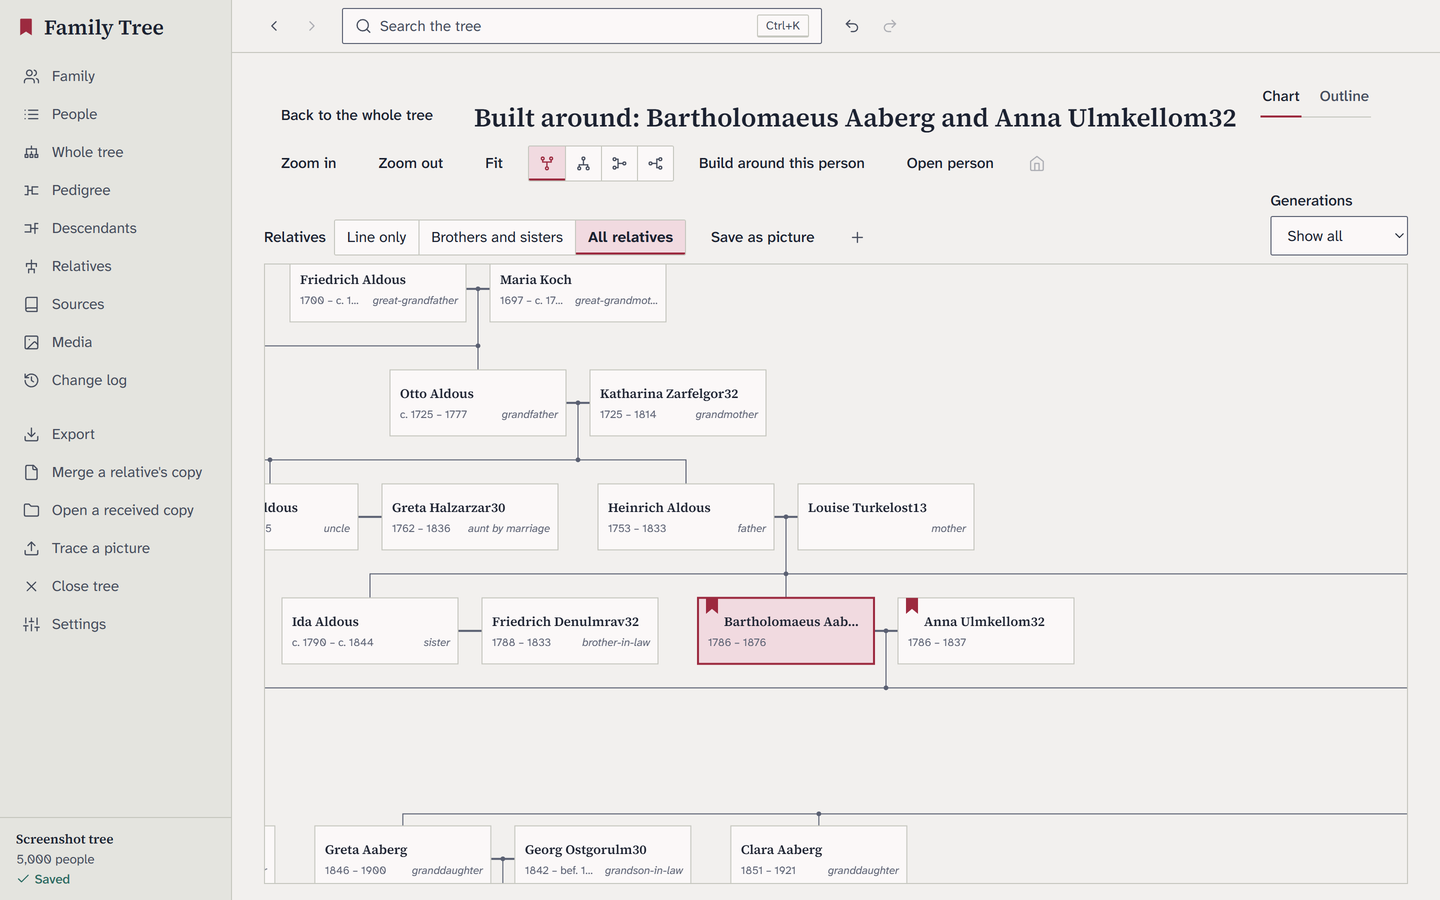
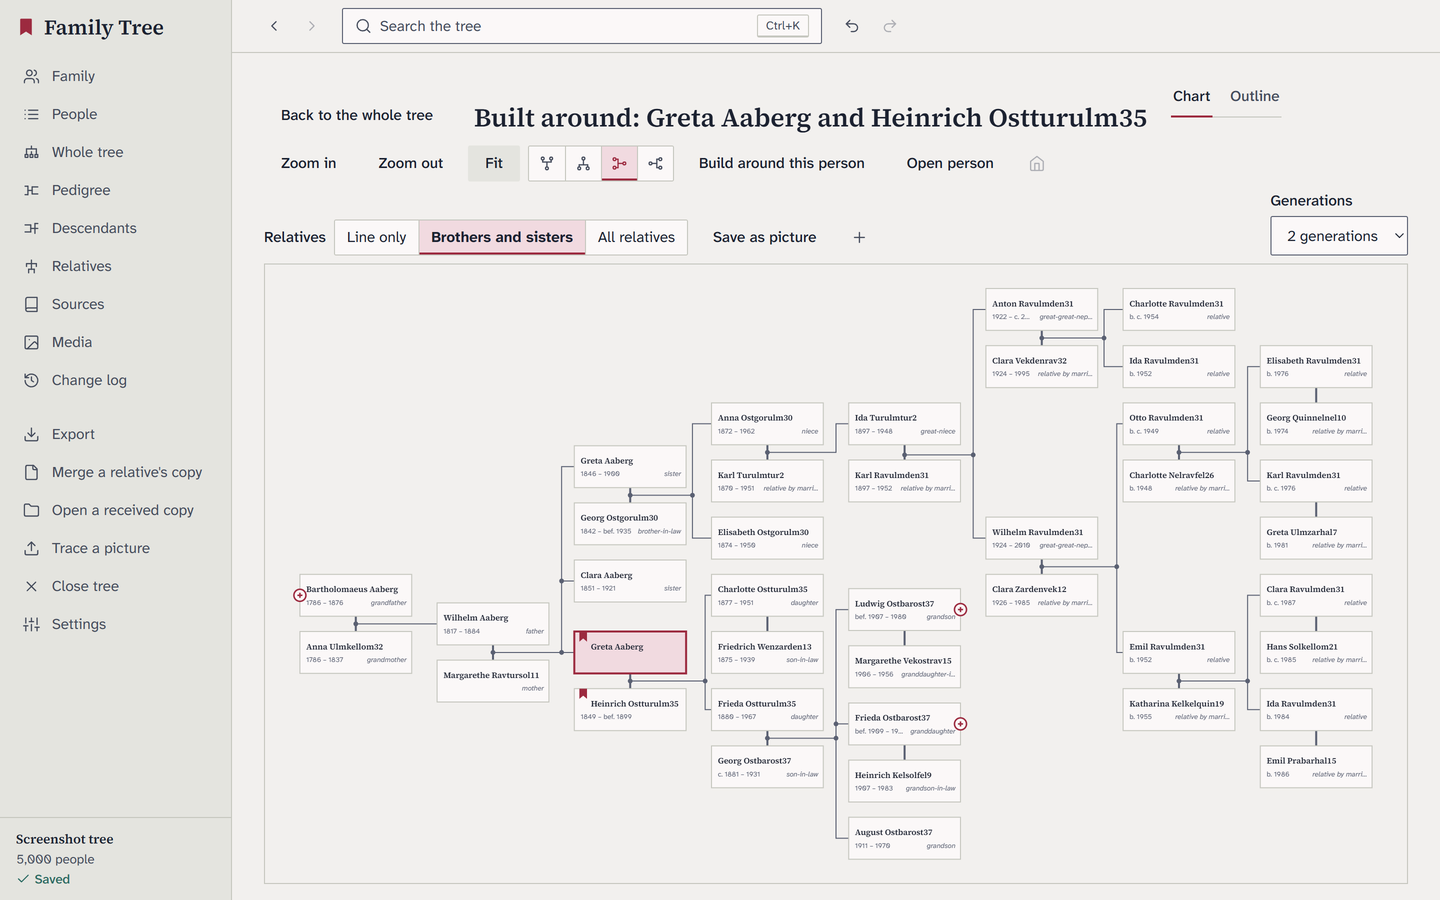
docs: charts in README screenshots fit the frame with readable cards

diff --git a/app/e2e-tauri/specs/screenshots.e2e.ts b/app/e2e-tauri/specs/screenshots.e2e.ts
@@ -37,6 +37,15 @@ const PERSON_NOTE =
 const FAMILY_NOTE =
   'They married in the town church and opened a bakery on the market square. It stayed in the family for three generations.';
 const SHIFT = '';
+// A granddaughter and her husband from the synthetic tree: a small family, so the charts stay readable when they fit the frame.
+const SMALL = { name: 'Greta Aaberg', husband: 'Heinrich Ostturulm35' };
+
+async function focusSmall() {
+  await search(SMALL.name);
+  await $(HITS).waitForDisplayed();
+  await browser.keys('Enter');
+  await $(`//h1[contains(.,"${SMALL.name}")]`).waitForDisplayed();
+}
 
 /** Closes every toast so none covers the picture. */
 async function clearToasts() {
@@ -44,6 +53,43 @@ async function clearToasts() {
     document.querySelectorAll<HTMLButtonElement>('[role="region"][aria-live="polite"] button[aria-label="Dismiss"]').forEach((b) => b.click()),
   );
   await browser.pause(700);
+}
+
+/** Picks "<n> generations" and fits the chart so every card is whole. */
+async function fitGenerations(text: string) {
+  const select = await $('//select[@id=//label[starts-with(normalize-space(.),"Generations")]/@for]');
+  await select.waitForDisplayed();
+  await select.selectByVisibleText(text);
+  await browser.pause(1200);
+  // Ancestors on the left: the chart grows downward instead of sideways, so it fits the frame at a readable size.
+  await $('//label[.//input[@data-direction="left"]]').click();
+  await browser.pause(1500);
+  await $('//button[normalize-space(.)="Fit"]').click();
+  await browser.pause(1200);
+}
+
+/** Drags the chart by (dx, dy) pixels. */
+async function dragChart(dx: number, dy: number) {
+  const canvas = await $('canvas[role="application"]');
+  const { x, y } = await canvas.getLocation();
+  const { width, height } = await canvas.getSize();
+  const sx = Math.round(x + width / 2);
+  const sy = Math.round(y + height * 0.8);
+  await browser.performActions([
+    {
+      type: 'pointer',
+      id: 'mouse',
+      parameters: { pointerType: 'mouse' },
+      actions: [
+        { type: 'pointerMove', duration: 0, x: sx, y: sy, origin: 'viewport' },
+        { type: 'pointerDown', button: 0 },
+        { type: 'pointerMove', duration: 400, x: sx + dx, y: sy + dy, origin: 'viewport' },
+        { type: 'pointerUp', button: 0 },
+      ],
+    },
+  ]);
+  await browser.releaseActions();
+  await browser.pause(800);
 }
 
 async function toWholeTreePage() {
@@ -103,42 +149,6 @@ async function markBoth(findLabel: string, first: string, second: string) {
   await flyTo(findLabel, second);
   await shiftClickCentre();
   await expect($('[data-testid="marked-count"]')).toHaveText('2 people selected');
-}
-
-/** A married couple of the synthetic tree, both with names that appear once and both with parents (from the backend's whole chart). */
-async function pickCouple(home: string): Promise<{ first: string; second: string }> {
-  await browser.execute((home: string) => {
-    delete (window as unknown as { __gtCouple?: unknown }).__gtCouple;
-    type Inv = (cmd: string, args?: Record<string, unknown>) => Promise<unknown>;
-    const invoke = (window as unknown as { __TAURI_INTERNALS__: { invoke: Inv } }).__TAURI_INTERNALS__.invoke;
-    const big = { x: -1e7, y: -1e7, w: 2e7, h: 2e7 };
-    const set = (v: unknown) => ((window as unknown as { __gtCouple?: unknown }).__gtCouple = v);
-    void (async () => {
-      const whole = (await invoke('chart_open_whole')) as { meta: { chartId: number } };
-      const w = (await invoke('chart_window', { chartId: whole.meta.chartId, rect: big, zoom: 1 })) as {
-        nodes: { id: number; person?: { id: string; name: string } }[];
-        edges: { from: number; to: number; kind: string }[];
-      };
-      const count = new Map<string, number>();
-      for (const n of w.nodes) if (n.person) count.set(n.person.name, (count.get(n.person.name) ?? 0) + 1);
-      const byId = new Map(w.nodes.map((n) => [n.id, n]));
-      
-      const couples = w.edges
-        .filter((e) => e.kind === 'partner')
-        .filter((e) => {
-          const a = byId.get(e.from)?.person;
-          const b = byId.get(e.to)?.person;
-          return a && b && count.get(a.name) === 1 && count.get(b.name) === 1;
-        });
-      if (!couples.length) return set({ error: 'no couple: ' + JSON.stringify([...new Set(w.edges.map((x) => x.kind))]) + ' ' + w.nodes.length });
-      const e = couples.find((c) => byId.get(c.from)?.person?.name === home || byId.get(c.to)?.person?.name === home) ?? couples[Math.floor(couples.length / 3)];
-      set({ first: byId.get(e.from)!.person!.name, second: byId.get(e.to)!.person!.name });
-    })().catch((x) => set({ error: String(x) }));
-  }, home);
-  await browser.waitUntil(() => browser.execute(() => !!(window as unknown as { __gtCouple?: unknown }).__gtCouple), { timeout: 60000 });
-  const got = await browser.execute(() => (window as unknown as { __gtCouple: { first: string; second: string; error?: string } }).__gtCouple);
-  if (got.error) throw new Error(got.error);
-  return got;
 }
 
 describe('Screenshots of the real app', () => {
@@ -284,17 +294,22 @@ describe('Screenshots of the real app', () => {
 
   it('relatives chart', async () => {
     await goTo('Family');
+    await focusSmall();
     await $('//nav//a[normalize-space(.)="Relatives"]').click();
     await $('[role="toolbar"]').waitForDisplayed({ timeout: 30000 });
     await $('canvas').waitForDisplayed();
-    await browser.pause(2500);
+    await browser.pause(1500);
+    await fitGenerations('2 generations');
     await clearToasts();
     await shot('real-relatives.png');
   });
 
   it('whole tree', async () => {
     await toWholeTreePage();
-    await flyTo('Find a person…', meta().home.name);
+    await flyTo('Find a person…', SMALL.name);
+    await click('Zoom out');
+    await browser.pause(500);
+    await dragChart(0, -230);
     await browser.execute(() => (document.activeElement as HTMLElement | null)?.blur());
     await clearToasts();
     await browser.pause(1200);
@@ -303,15 +318,16 @@ describe('Screenshots of the real app', () => {
 
   it('built around a married couple, all relatives', async () => {
     await toWholeTreePage();
-    const { first, second } = await pickCouple(meta().home.name);
+    const first = SMALL.name;
+    const second = SMALL.husband;
     await markBoth('Find a person…', first, second);
     await $('//button[normalize-space(.)="Build around these people (2)"]').waitForDisplayed();
     await $('//button[normalize-space(.)="Build around these people (2)"]').click();
     await $(`//h1[contains(.,"Built around:")][contains(.,"${first}")]`).waitForDisplayed({ timeout: 30000 });
     await $('canvas[role="application"]').waitForDisplayed();
-    await $('//label[normalize-space(.)="All relatives"]').click();
+    await $('//label[normalize-space(.)="Brothers and sisters"]').click();
     await browser.pause(1800);
-    await browser.pause(1200);
+    await fitGenerations('2 generations');
     await clearToasts();
     await shot('real-around.png');
     await $('//button[normalize-space(.)="Back to the whole tree"]').click();
